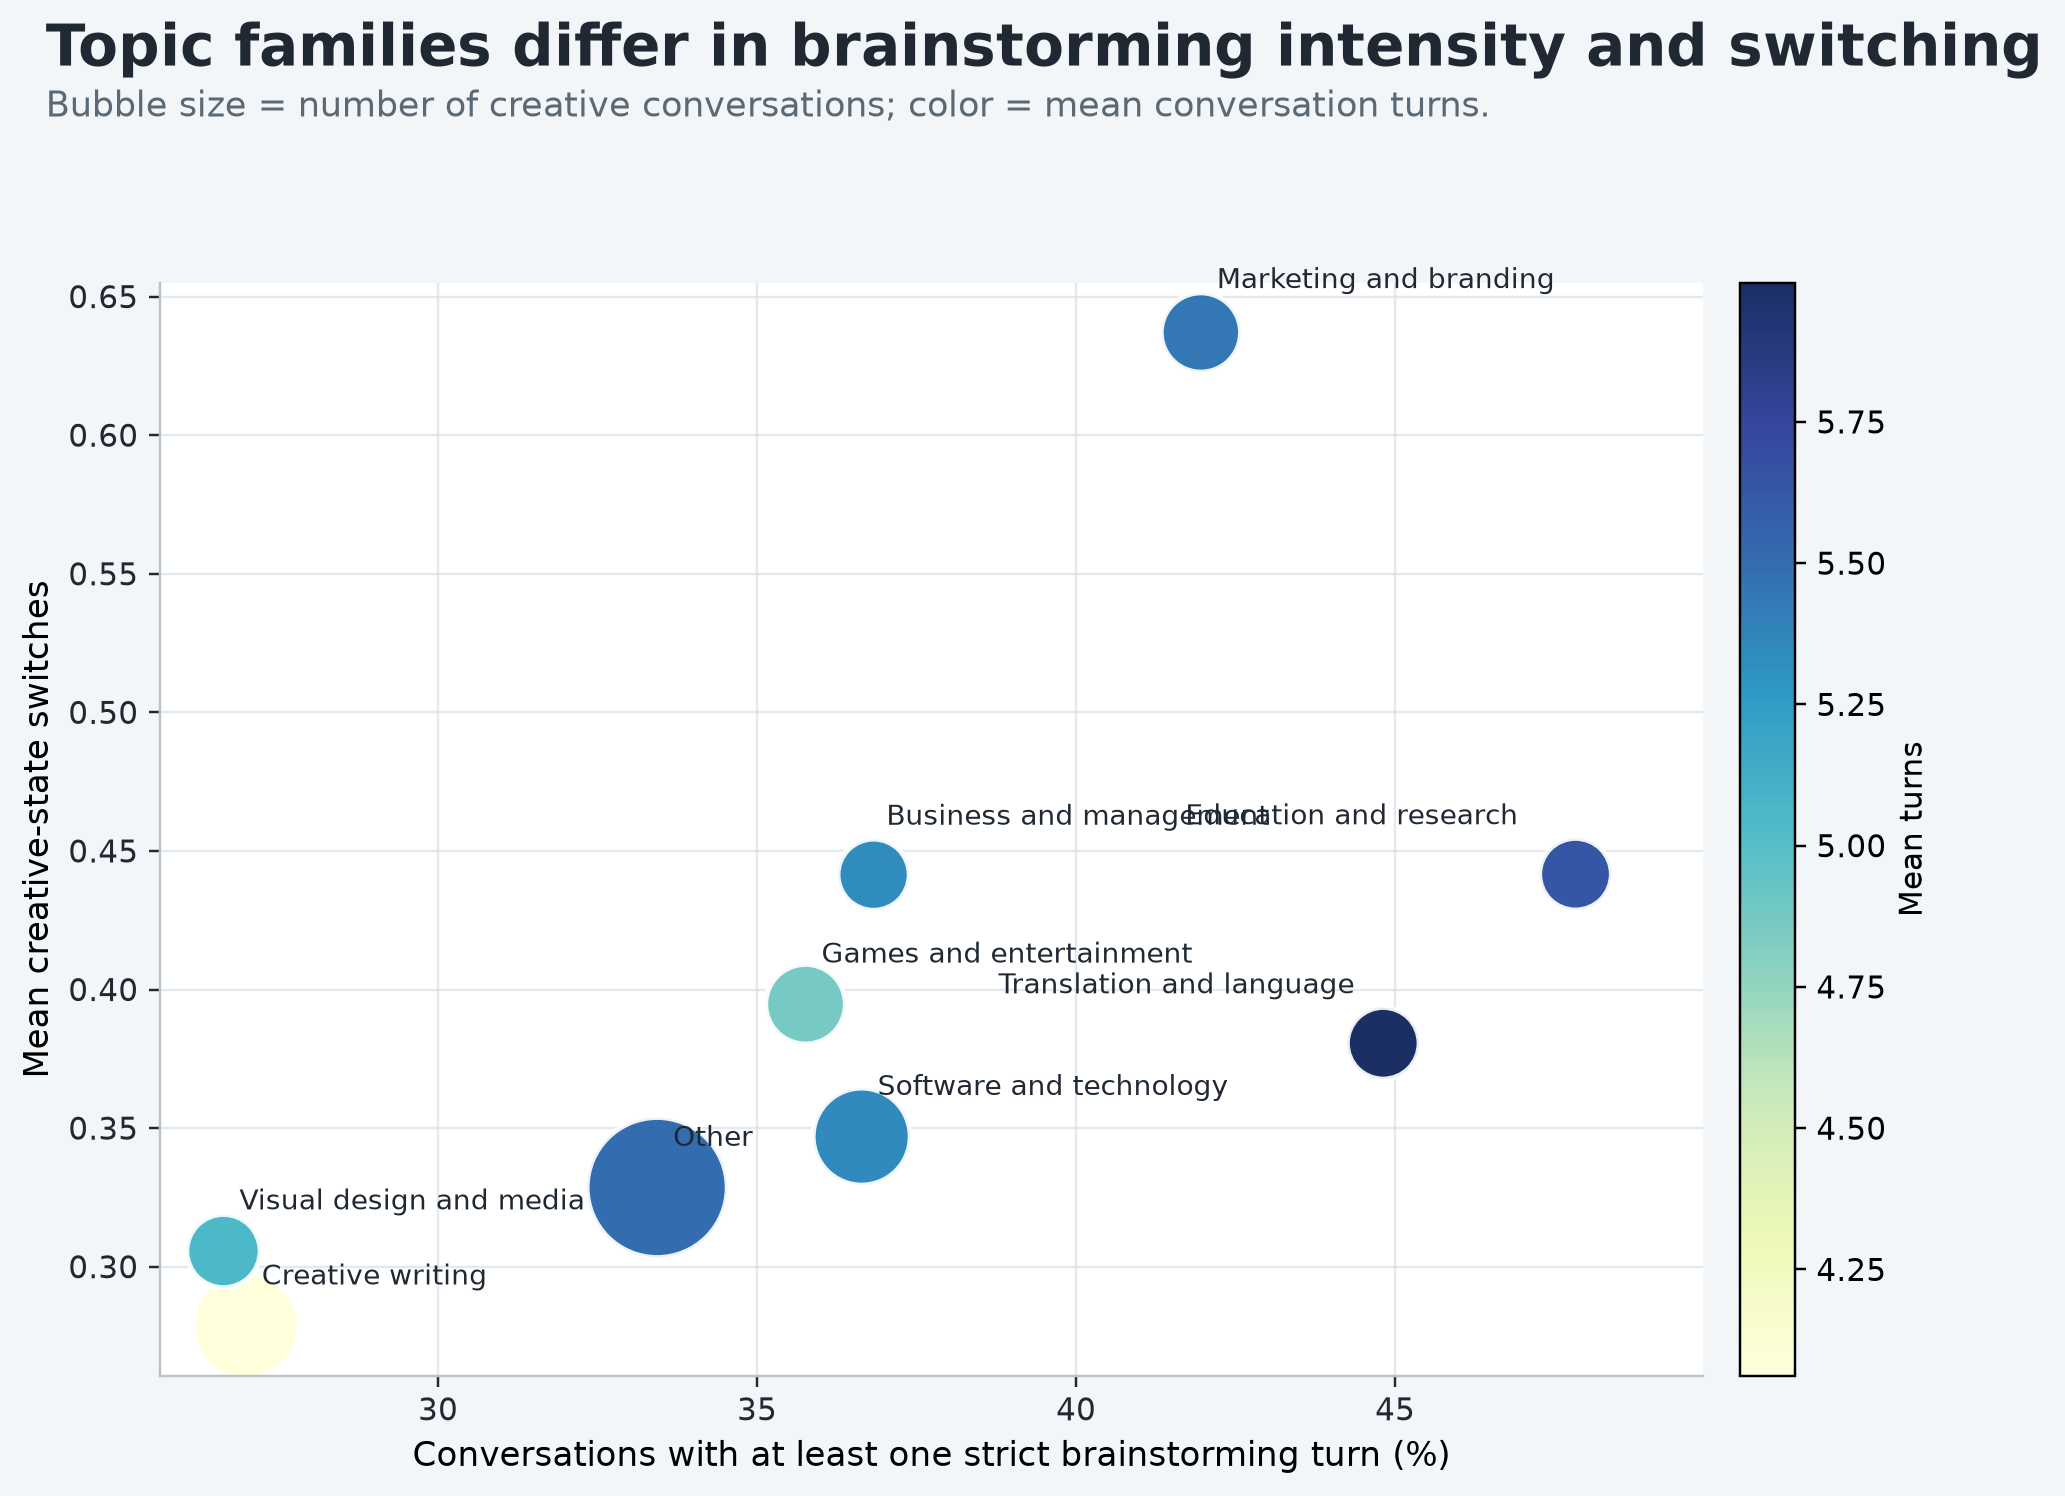
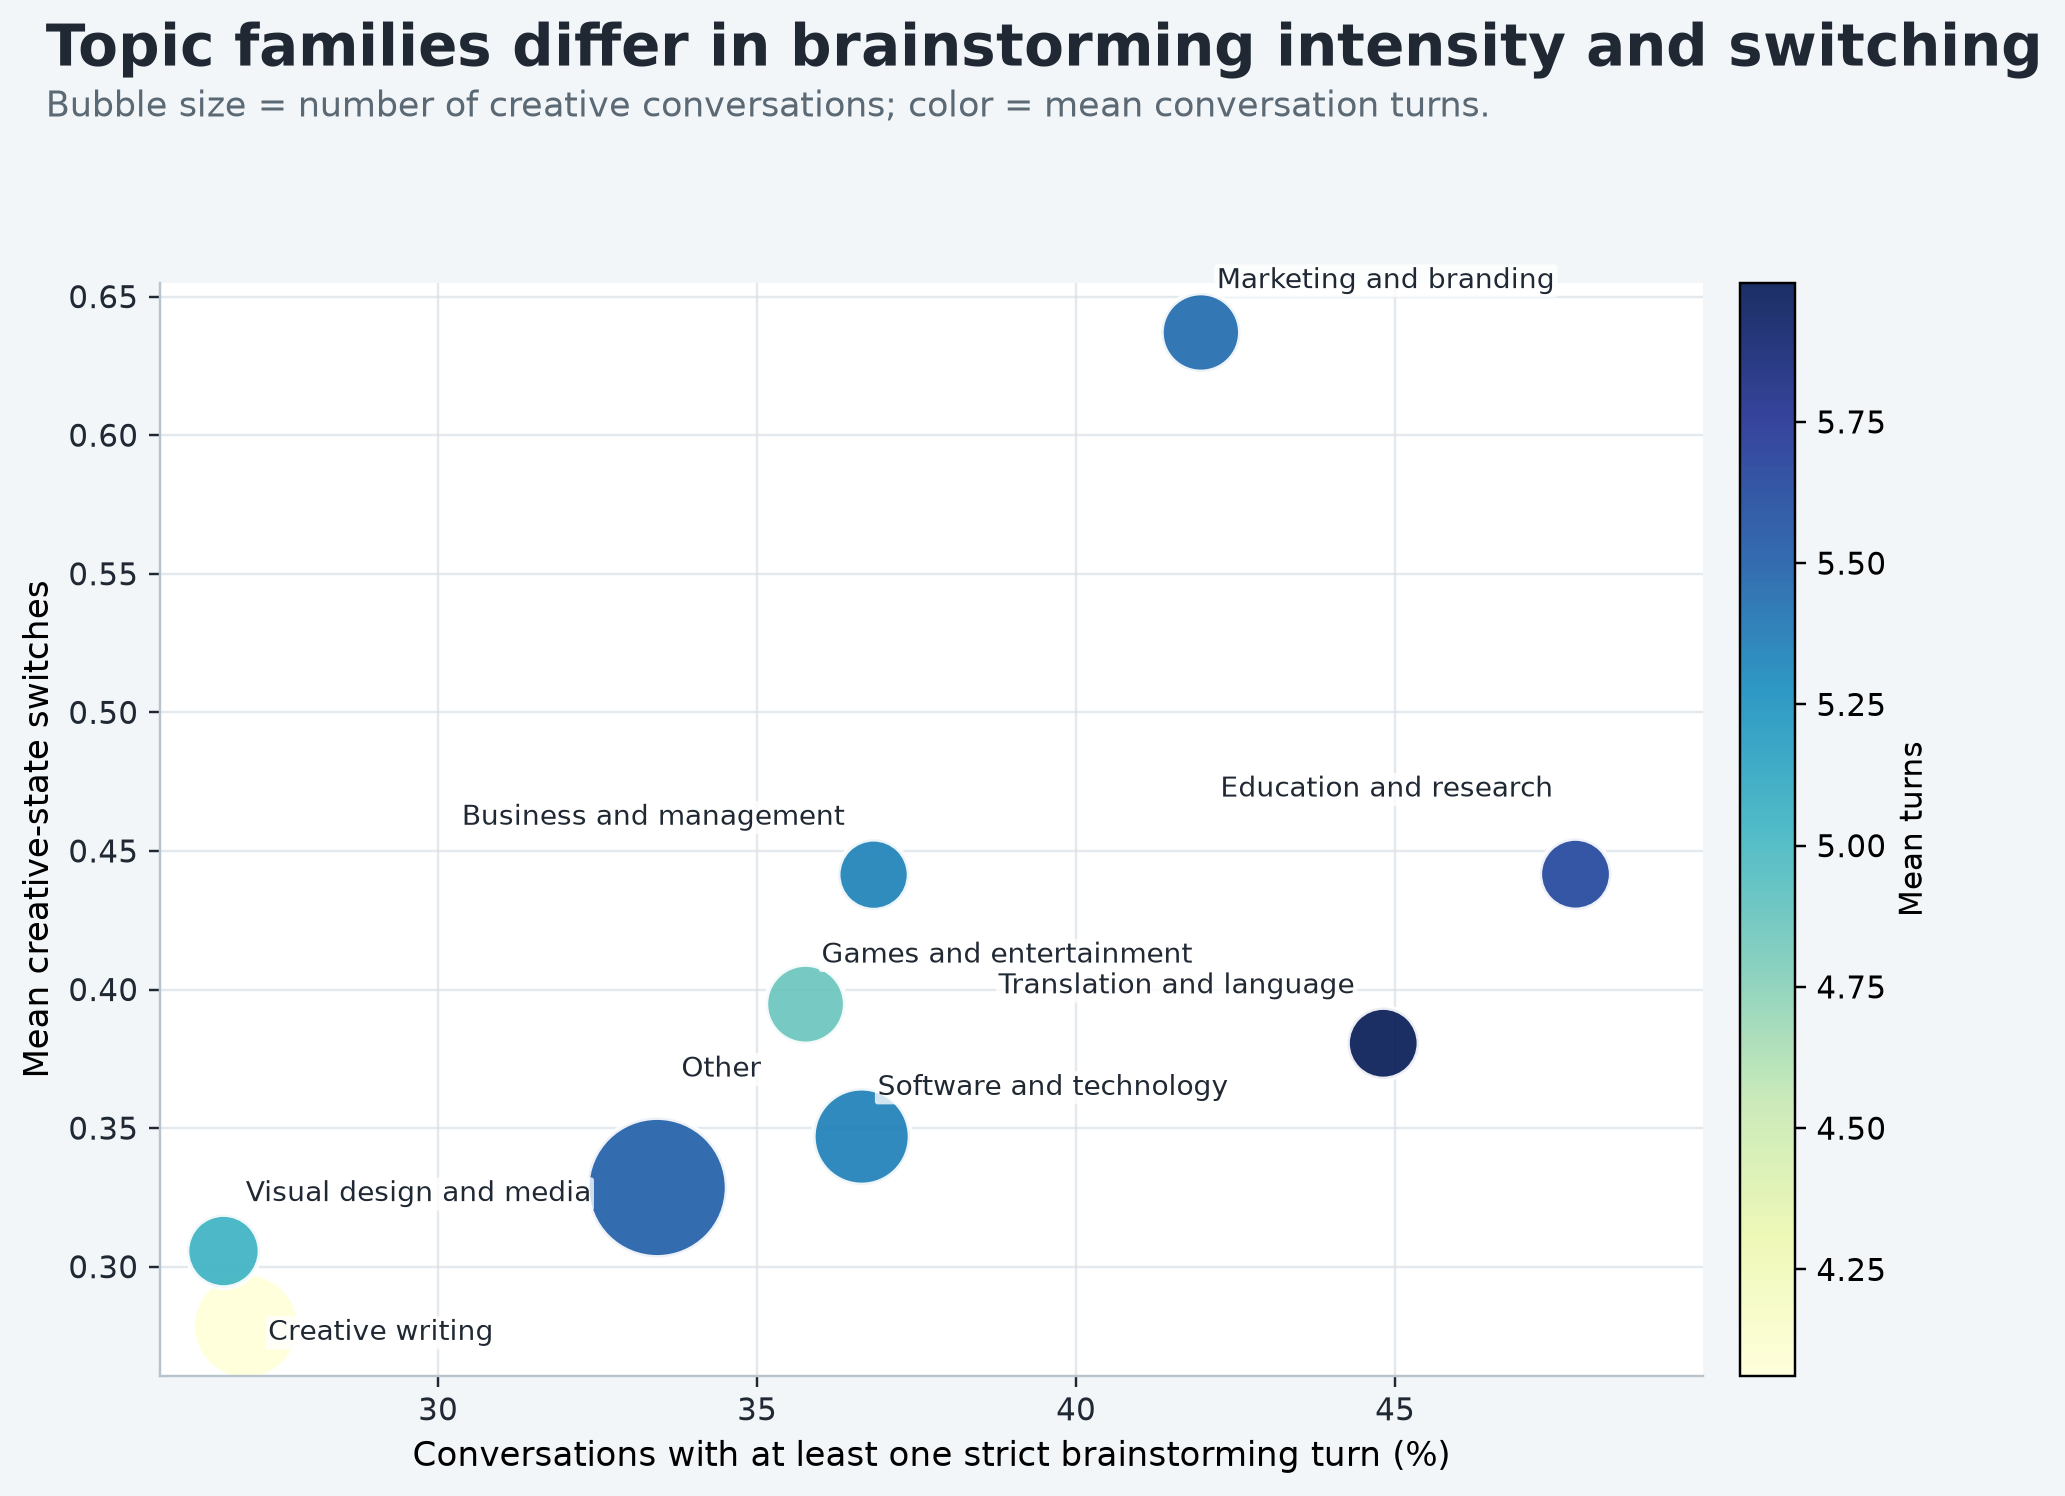
Polish Goal 1 visualization PDF

diff --git a/goal1_user_brainstorm_process/src/make_goal1_visualization_pdf.py b/goal1_user_brainstorm_process/src/make_goal1_visualization_pdf.py
@@ -1,5 +1,6 @@
 from __future__ import annotations
 
+import textwrap
 from pathlib import Path
 
 import matplotlib.image as mpimg
@@ -21,61 +22,62 @@ PAGES = [
     {
         "title": "1. Goal 1 总览：用户如何使用 GenAI 进行 brainstorming",
         "image": "goal1_finding_summary_board.png",
-        "bullets": [
-            "这张图把 Goal 1 的主要结果压缩到一页，用来快速说明整体故事。",
-            "核心发现是：常见 creative use 比较短，single generation 和 wide without local 是主要模式。",
-            "真正 wide → local 或 extended iterative process 比例较低，但更能代表深入的 brainstorming / design-like interaction。",
+        "points": [
+            "本页概括 Goal 1 的主要结果，展示 creative use 的常见长度、主要过程类型，以及 wide/local 转换的大致比例。",
+            "Creative runs 平均 1.86 turns，中位数为 1 turn，说明大多数 creative activity 并不会持续很多轮。",
+            "Single generation 和 wide without local 是最常见的过程；wide → local 与 extended process 占比较低，但更接近持续探索和深化的 brainstorming process。",
         ],
     },
     {
-        "title": "2. Creative conversation 的 process taxonomy",
+        "title": "2. Creative conversations 的过程类型分布",
         "image": "process_taxonomy_flow_story.png",
-        "bullets": [
-            "这张 flow-style 图展示 creative conversations 如何分布到不同 process types。",
-            "大多数 conversation 停留在 single generation only 或 wide without local refinement。",
-            "wide → local、local → wide、iterative reopening 都比较少见，但这些类型平均 turns 更长。",
+        "points": [
+            "本页展示 creative conversations 在不同 process taxonomy 中的分布。",
+            "Single generation only：用户主要要求一个 creative output，没有明显进入多方案探索或后续深化。",
+            "Wide without local refinement：用户要求多个 alternatives，但没有明显选择其中一个继续深化。Local without wide exploration：用户直接围绕已有方向修改、选择或细化。",
+            "Wide → local / local → wide / iterative reopening 表示用户在发散搜索和局部深化之间发生转换；这些模式较少见，但通常 conversation 更长。",
         ],
     },
     {
-        "title": "3. Creative activity 通常持续多久",
+        "title": "3. Creative activity 的连续长度",
         "image": "creative_run_length_survival.png",
-        "bullets": [
-            "这张 survival-style 图展示不同 creative states 能持续至少 N 个 user turns 的比例。",
-            "所有 creative runs 在第 1 到第 2 turn 之间下降很快，说明 creative activity 通常比较短。",
-            "broad exploration 比 strict brainstorming 和 local refinement 更容易持续多轮。",
+        "points": [
+            "本页展示不同 creative states 能持续至少 N 个 user turns 的比例。",
+            "从第 1 到第 2 turn 的下降最明显，说明多数 creative runs 很快结束。",
+            "Broad exploration 相比 strict brainstorming 和 local refinement 更容易持续多轮，但整体持续长度仍然偏短。",
         ],
     },
     {
-        "title": "4. AI 给出多个 genuine options 后，用户下一步怎么走",
+        "title": "4. AI 给出多个 genuine options 后的下一步用户行为",
         "image": "manual_transition_story_ci.png",
-        "bullets": [
-            "这张图基于人工校准后的 genuine multiple-option paths，横线表示 bootstrap 95% CI。",
-            "initial wide search 后，用户不一定直接进入 local refinement，也常继续 other creative continuation 或结束。",
-            "initial local search 后，用户更容易继续 local，说明一旦收窄到某个 option，后续更容易围绕它深化。",
+        "points": [
+            "本页基于人工校准后的 genuine multiple-option paths，展示用户下一轮如何继续；横线表示 bootstrap 95% CI。",
+            "Wide 表示继续要求更多或更广的 alternatives；Local 表示围绕某一个 option 选择、比较、修改或深化。",
+            "Initial wide search 后，用户并不总是直接进入 local refinement，也可能继续其他 creative subtask 或结束。Initial local search 后，用户更容易继续 local。",
         ],
     },
     {
         "title": "5. 三类 user-process groups 的 PCA projection",
         "image": "pca_user_process_clusters.png",
-        "bullets": [
-            "这张图回应老师建议的 PCA projection：每个点是一条 creative conversation，不同颜色代表三类 user-process groups。",
-            "三类过程在低维空间中呈现可解释的相对位置：brief creativity、creative-session dominant、extended iterative process。",
-            "extended iterative process 分布更宽，说明这类 conversation 更长、更复杂，也有更多 creative-state switching。",
+        "points": [
+            "本页用 conversation-level process features 做 PCA projection，每个点代表一条 creative conversation，颜色代表三类 user-process groups。",
+            "Brief creativity within broader tasks：creative activity 只是 broader task 中的一小段。Creative-session dominant：conversation 主要围绕 creative output 展开。",
+            "Extended iterative process：conversation 更长、creative runs 更多、state switching 更多，代表更复杂的反复探索过程。",
         ],
     },
     {
         "title": "6. Topic family 与 brainstorming intensity / switching",
         "image": "topic_process_bubble_map.png",
-        "bullets": [
-            "这张 bubble chart 展示不同 topic family 的 process 差异。",
-            "x 轴是至少包含一个 strict brainstorming turn 的 conversation 比例，y 轴是 mean creative-state switches。",
-            "bubble size 表示 creative conversation 数量，颜色表示 mean turns；topic 有影响，但不是唯一解释因素。",
+        "points": [
+            "本页展示不同 topic family 与 brainstorming intensity 和 creative-state switching 的关系。",
+            "x 轴表示至少包含一个 strict brainstorming turn 的 conversation 比例；y 轴表示平均 creative-state switches。",
+            "Bubble size 表示 creative conversation 数量，颜色表示平均 turns。Topic family 与过程差异有关，但不能单独解释用户如何 brainstorming。",
         ],
     },
 ]
 
 
-def add_text(ax, x: float, y: float, text: str, size: float, weight: str = "normal", color: str = "#202933") -> None:
+def draw_text(ax, x: float, y: float, text: str, size: float, bold: bool = False, color: str = "#202933") -> None:
     ax.text(
         x,
         y,
@@ -85,9 +87,16 @@ def add_text(ax, x: float, y: float, text: str, size: float, weight: str = "norm
         va="top",
         fontsize=size,
         color=color,
-        fontproperties=BOLD if weight == "bold" else FONT,
-        linespacing=1.35,
+        fontproperties=BOLD if bold else FONT,
+        linespacing=1.28,
     )
+
+
+def draw_wrapped_point(ax, x: float, y: float, text: str, width: int = 82) -> float:
+    wrapped = textwrap.fill(text, width=width, break_long_words=False, break_on_hyphens=False)
+    draw_text(ax, x, y, "• " + wrapped.replace("\n", "\n  "), 10.6, color="#42515F")
+    line_count = wrapped.count("\n") + 1
+    return y - 0.037 * line_count - 0.014
 
 
 def make_page(pdf: PdfPages, page: dict) -> None:
@@ -95,15 +104,17 @@ def make_page(pdf: PdfPages, page: dict) -> None:
     ax = fig.add_axes([0, 0, 1, 1])
     ax.axis("off")
 
-    add_text(ax, 0.055, 0.94, page["title"], 20, weight="bold")
-    y = 0.875
-    for bullet in page["bullets"]:
-        add_text(ax, 0.075, y, "• " + bullet, 11.7, color="#42515F")
-        y -= 0.048
+    draw_text(ax, 0.055, 0.945, page["title"], 18.5, bold=True)
+    y = 0.885
+    for point in page["points"]:
+        y = draw_wrapped_point(ax, 0.072, y, point)
 
-    image_path = FIGURES / page["image"]
-    image = mpimg.imread(image_path)
-    img_ax = fig.add_axes([0.055, 0.055, 0.89, 0.62])
+    image_top = min(0.64, y - 0.025)
+    image_bottom = 0.045
+    image_height = max(0.50, image_top - image_bottom)
+
+    image = mpimg.imread(FIGURES / page["image"])
+    img_ax = fig.add_axes([0.055, image_bottom, 0.89, image_height])
     img_ax.imshow(image)
     img_ax.axis("off")
 

diff --git a/goal1_user_brainstorm_process/src/make_goal1_visual_package.py b/goal1_user_brainstorm_process/src/make_goal1_visual_package.py
@@ -139,10 +139,8 @@ def add_card(ax, xy, wh, title, value, subtitle, color):
             linewidth=1.2,
         )
     )
-    subtitle_wrapped = textwrap.fill(subtitle, width=38)
-    ax.text(x + 0.035, y + h - 0.06, title, fontsize=12.5, weight="bold", color=color, va="top")
-    ax.text(x + 0.035, y + 0.118, value, fontsize=23, weight="bold", color=COLORS["ink"], va="bottom")
-    ax.text(x + 0.035, y + 0.05, subtitle_wrapped, fontsize=8.9, color="#5B6975", va="bottom", linespacing=1.15)
+    ax.text(x + 0.035, y + h - 0.055, title, fontsize=12.5, weight="bold", color=color, va="top")
+    ax.text(x + 0.035, y + 0.095, value, fontsize=24, weight="bold", color=COLORS["ink"], va="bottom")
 
 
 def load_public_results():
@@ -362,16 +360,27 @@ def make_topic_process_bubble(topic: pd.DataFrame) -> None:
         alpha=0.92,
     )
     label_offsets = {
-        "Education and research": (-0.9, 0.018, "right"),
+        "Education and research": (-0.35, 0.028, "right"),
         "Translation and language": (-0.45, 0.018, "right"),
-        "Business and management": (0.20, 0.018, "left"),
+        "Business and management": (-0.45, 0.018, "right"),
         "Marketing and branding": (0.25, 0.016, "left"),
+        "Other": (0.38, 0.040, "left"),
+        "Creative writing": (0.35, -0.005, "left"),
+        "Visual design and media": (0.35, 0.018, "left"),
     }
     for _, row in topic.iterrows():
         x = row["strict_conversation_rate"] * 100
         y = row["mean_switches"]
         dx, dy, ha = label_offsets.get(row["label"], (0.25, 0.015, "left"))
-        ax.text(x + dx, y + dy, row["label"], fontsize=9.0, color=COLORS["ink"], ha=ha)
+        ax.text(
+            x + dx,
+            y + dy,
+            row["label"],
+            fontsize=9.0,
+            color=COLORS["ink"],
+            ha=ha,
+            bbox={"boxstyle": "round,pad=0.10", "fc": "white", "ec": "none", "alpha": 0.78},
+        )
     style_ax(ax, grid_axis="both")
     fig.subplots_adjust(top=0.80, right=0.86)
     fig.suptitle("Topic families differ in brainstorming intensity and switching", x=0.08, y=0.965, ha="left", fontsize=19, weight="bold", color=COLORS["ink"])